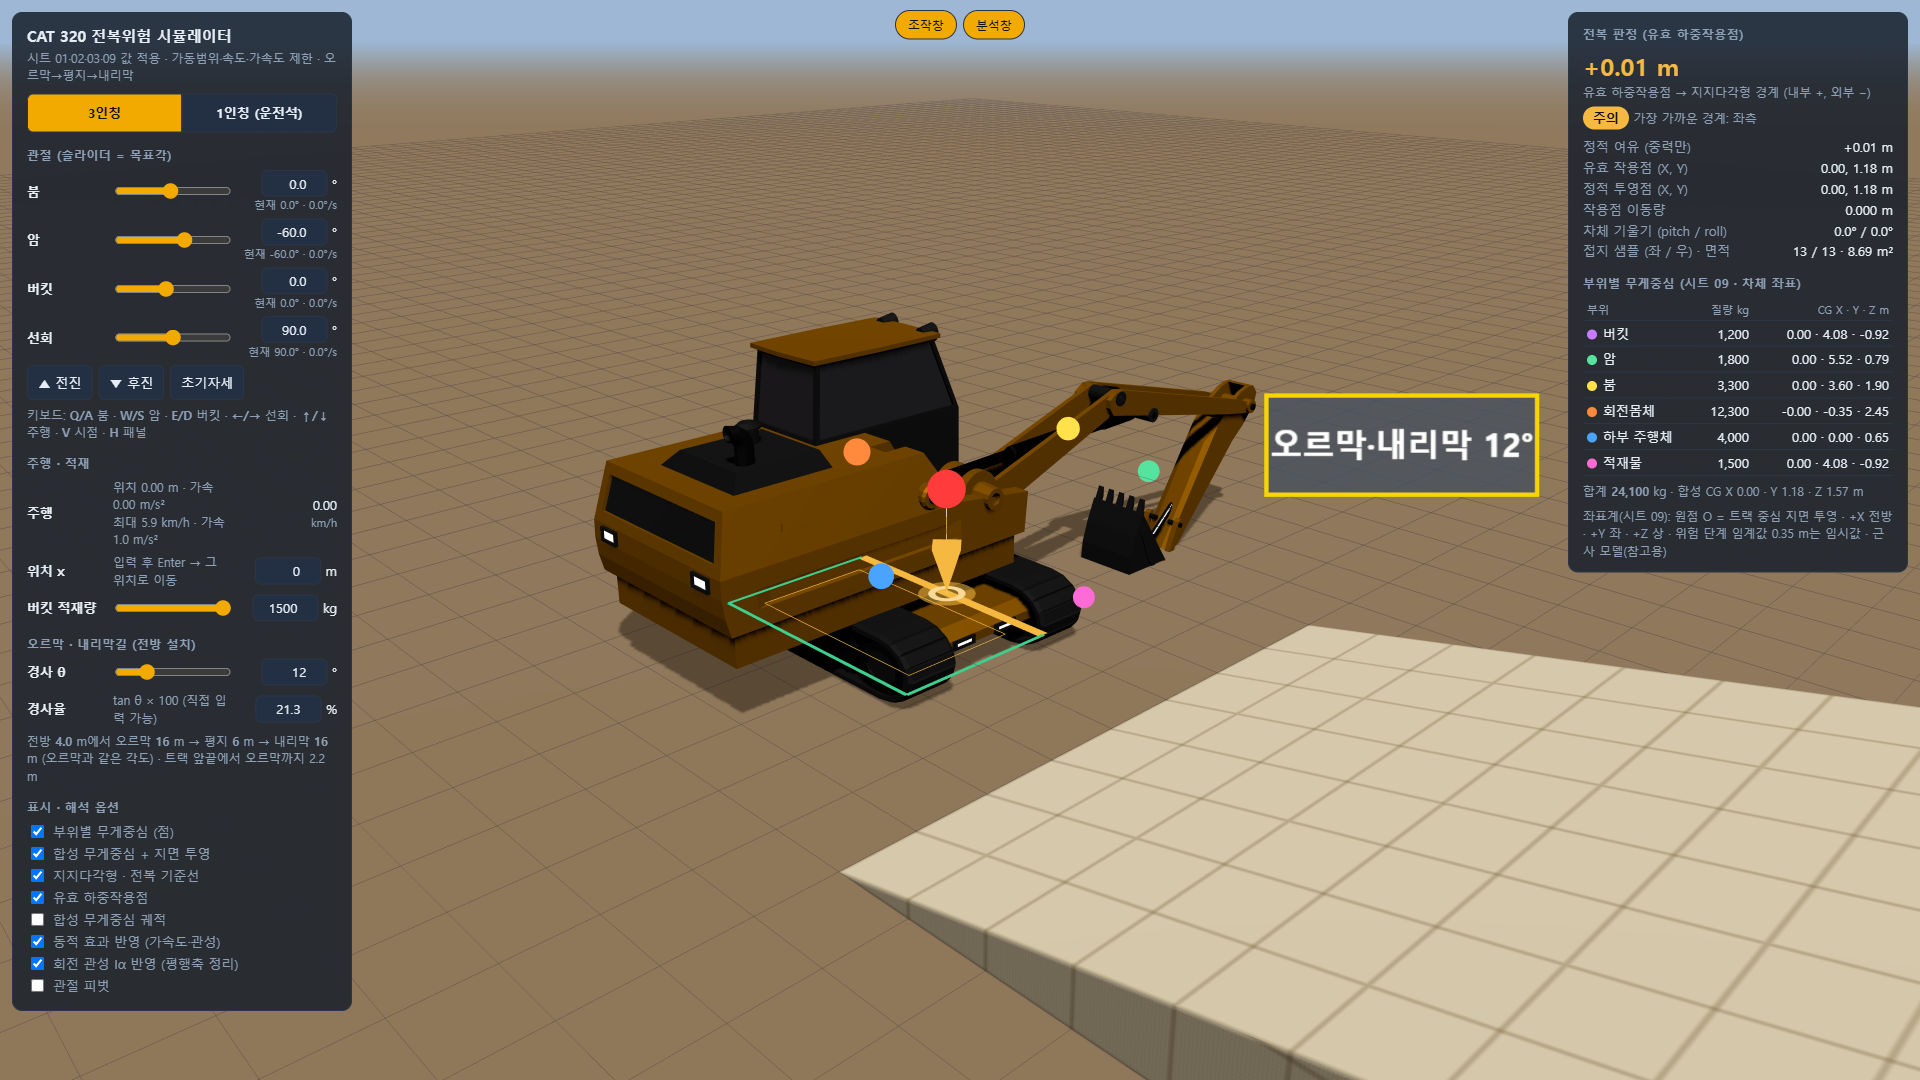
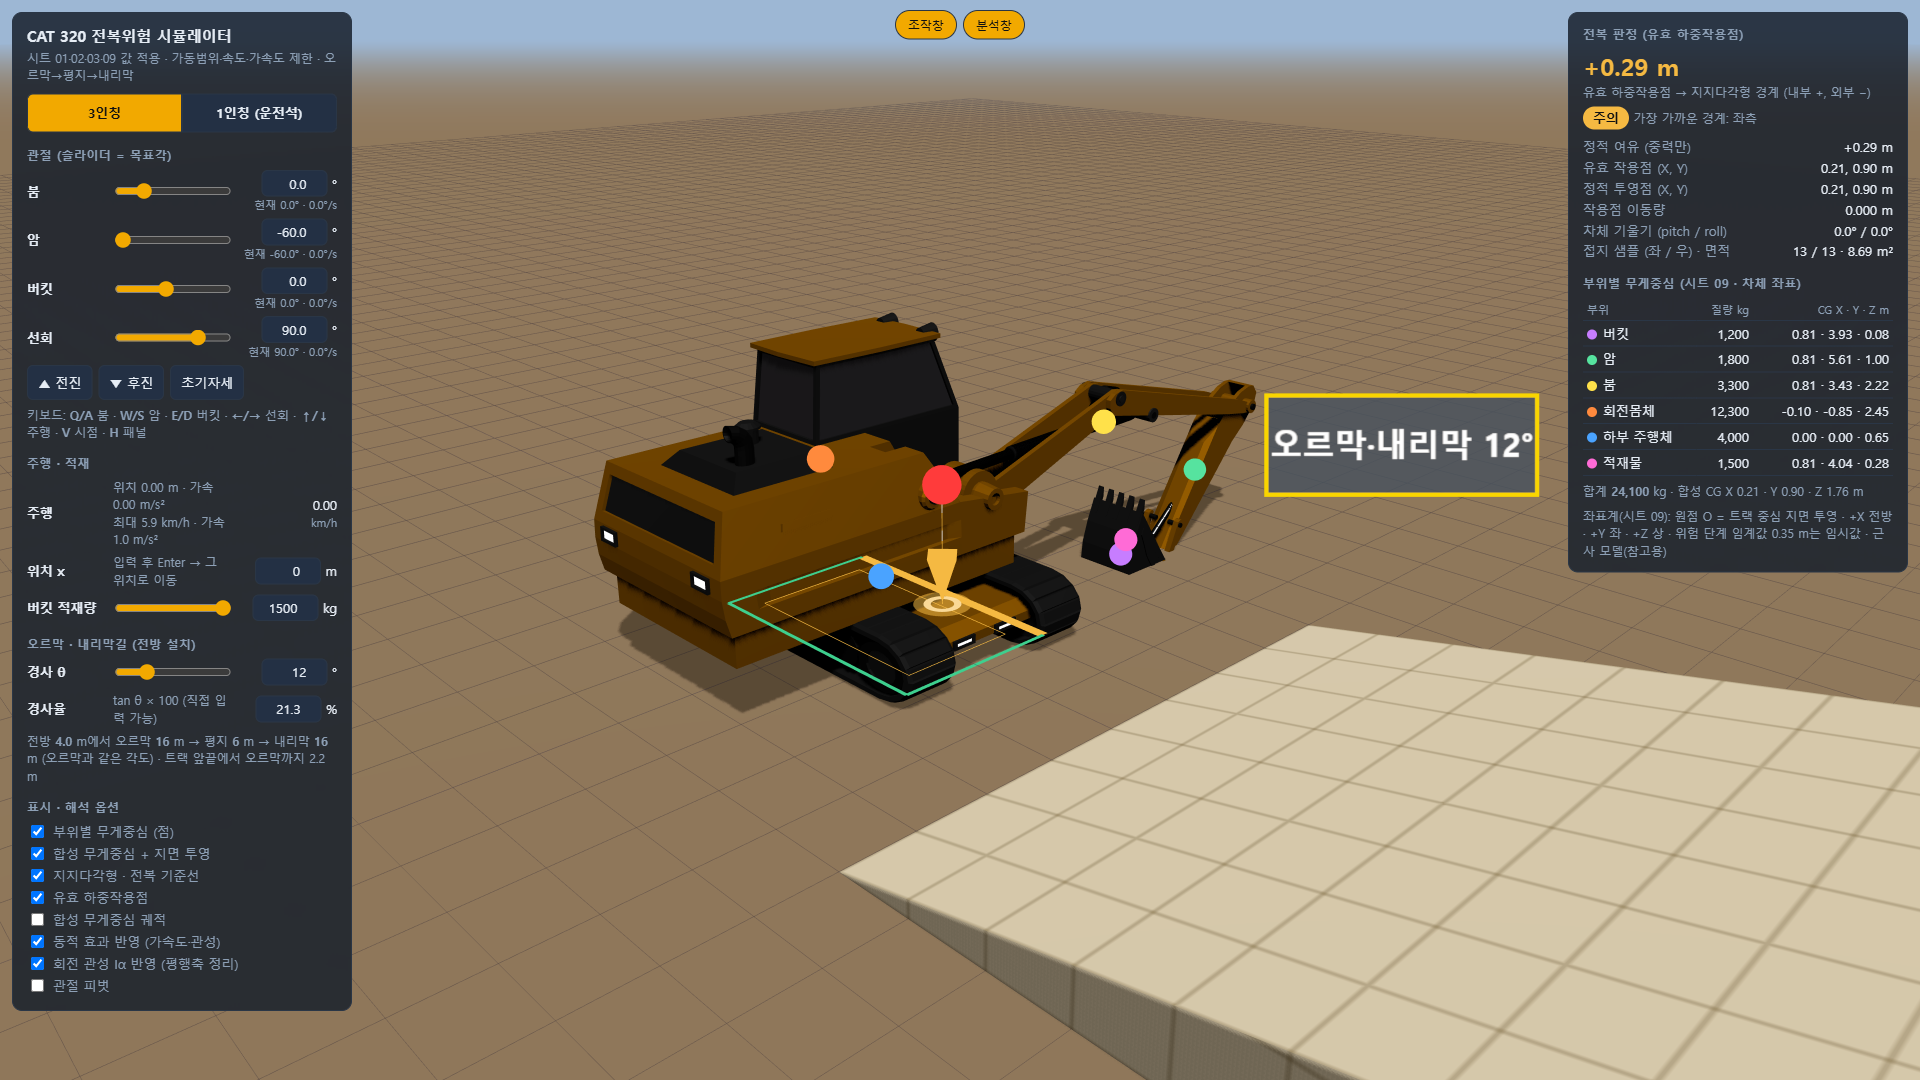
진짜 최종(무게중심 수정판) 기준으로 사진 7장·대본 수치·제작 가이드 갱신

diff --git a/docs/PPT_제작가이드.md b/docs/PPT_제작가이드.md
@@ -9,16 +9,16 @@
 |---|---|---|
 | `qr_simulator.png` | 시뮬레이터 주소 QR (흑백, 판독 확인 완료) | 결과물 시연 장, QnA 장 |
 | `qr_simulator_card.png` | QR + "시뮬레이터 직접 해 보기" + 주소가 들어간 노랑 카드 | 감사합니다 장 또는 QnA 장 오른쪽 아래 |
-| `sim_01_평지_초기자세_안정.png` | 평지 초기 자세, 여유 +0.47 m 안정 (양쪽 패널 보임) | 9장 「위험도 실시간 표시」 — 오른쪽 분석창 설명용 |
-| `sim_02_평지_팔옆으로_1500kg_주의.png` | 팔을 옆으로 뻗고 1,500 kg, +0.01 m 주의 | 정확도 확인 장 (짐을 늘리면 위험 증가) |
-| `sim_03a_오르막10도_팔들고_내리막방향_안정.png` | 오르막 10°, 팔 듦, 내리막 방향, +0.40 m 안정 | 8장 「위험 단계」 — 03b와 나란히 |
-| `sim_03b_오르막18도_팔들고_내리막방향_전복위험.png` | 같은 자세 오르막 18°, −0.07 m 전복 위험 | 8장 — 03a와 나란히 ("8도 차이로 판정이 바뀐다") |
+| `sim_01_평지_초기자세_안정.png` | 평지 초기 자세, 여유 +0.86 m 안정 (양쪽 패널 보임) | 9장 「위험도 실시간 표시」 — 오른쪽 분석창 설명용 |
+| `sim_02_평지_팔옆으로_1500kg_주의.png` | 팔을 옆으로 뻗고 1,500 kg, +0.29 m 주의 | 정확도 확인 장 (짐을 늘리면 위험 증가) |
+| `sim_03a_오르막15도_팔들고_내리막방향_안정.png` | 오르막 15°, 팔 듦, 내리막 방향, +0.45 m 안정 | 8장 「위험 단계」 — 03b와 나란히 |
+| `sim_03b_오르막25도_팔들고_내리막방향_전복위험.png` | 같은 자세 오르막 25°, −0.16 m 전복 위험 | 8장 — 03a와 나란히 ("10도 차이로 판정이 바뀐다") |
 | `sim_04a_1인칭_오르막15도_패널.png` | 운전석 시점, 오르막 15° (패널 보임) | 1인칭 설명 장 |
 | `sim_04b_1인칭_오르막15도_깨끗한화면.png` | 운전석 시점, 패널 없음 — 땅이 평평해 보임 | 1인칭 설명 장(큰 사진) |
-| `sim_05_3인칭_오르막18도_전복위험_깨끗한화면.png` | 3인칭, 패널 없이 전복 위험 장면 | 3장 「무엇을, 왜」 대표 사진 또는 표지 보조 |
+| `sim_05_3인칭_오르막25도_전복위험_깨끗한화면.png` | 3인칭, 패널 없이 전복 위험 장면 | 3장 「무엇을, 왜」 대표 사진 또는 표지 보조 |
 
-- 모두 1920×1080. Canva에 업로드 → 끌어다 놓기. 사진 위에 짧은 캡션(예: "오르막 18° · 내리막 방향 → 전복 위험")을 얹으면 좋다.
-- 수치는 최종(내리막길 적용) 시뮬레이터에서 직접 잰 값이다.
+- 모두 1920×1080. Canva에 업로드 → 끌어다 놓기. 사진 위에 짧은 캡션(예: "오르막 25° · 내리막 방향 → 전복 위험")을 얹으면 좋다.
+- 수치는 진짜 최종(무게중심 수정판) 시뮬레이터에서 직접 잰 값이다.
 
 ## 2. 슬라이드 배치 (수정안 13장 + 결과물 시연 1장 = 14장)
 
@@ -26,7 +26,7 @@
 |---|---|
 | 3 무엇을, 왜 만드나요 | 오른쪽에 `sim_05` 작게 |
 | 4 AI툴 소개 | 로고 + "AI는 어디에 쓰나요" 3줄 (수정안) |
-| 8 위험 단계 표시 방법 | 아래쪽에 `sim_03a` · `sim_03b` 나란히, 가운데 화살표 "10° → 18°" |
+| 8 위험 단계 표시 방법 | 아래쪽에 `sim_03a` · `sim_03b` 나란히, 가운데 화살표 "15° → 25°" |
 | 9 위험도 실시간 표시 방법 | `sim_01` (오른쪽 분석창에 동그라미 표시) |
 | **새 장 「결과물 시연」** (9장 뒤) | **영상**(아래 3절) 크게 + 오른쪽 아래 `qr_simulator.png` |
 | 10 정확한지 어떻게 확인하나요 | 문구 3줄 + `sim_02` |
@@ -40,10 +40,10 @@
 
 | 순서 | 클립 | 길이 | 찍는 방법 | 보여줄 메시지 |
 |---|---|---|---|---|
-| ★1 | **방향 하나로 바뀌는 판정** | 20초 | 오르막 18° 위에서 붐 60°·암 30°·버킷 45°로 팔을 든 채, 선회를 0° → 180°로 천천히 돌림 (← → 키) | 여유가 +1.19 m(안정) → 주의 → −0.07 m(전복 위험)으로 떨어지고, 바닥 화살표가 지지영역 밖으로 빨갛게 나감 |
+| ★1 | **방향 하나로 바뀌는 판정** | 20초 | 오르막 25° 위에서 붐 60°·암 30°·버킷 45°로 팔을 든 채, 선회를 0° → 180°로 천천히 돌림 (← → 키) | 여유가 +0.95 m(안정) → 주의 → −0.16 m(전복 위험)으로 떨어지고, 바닥 화살표가 지지영역 밖으로 빨갛게 나감 |
 | 2 | 오르막 진입 | 15초 | 평지에서 오르막(15~18°)으로 전진(↑ 키). 오른쪽 패널의 '차체 기울기'와 '접지 샘플'이 변하는 순간 | 땅에 닿는 점이 바뀌면 지지영역도 다시 계산된다 |
-| 3 | 짐을 늘리면 | 10~15초 | 평지, 팔을 옆으로 뻗은 자세(붐 0°, 암 −60°, 선회 90°)에서 버킷 적재량 0 → 1,500 kg | 여유 +0.20 m(주의) → +0.01 m(경계선) |
-| 4 | 급하게 돌리면 | 15초 | 평지, 적재 1,000 kg, 팔 옆으로 뻗은 채 선회를 빠르게 | '정적 여유'(중력만)와 맨 위 '유효' 여유가 벌어짐 — 움직이면 더 위험 |
+| 3 | 짐을 늘리면 | 10~15초 | 평지, 팔을 옆으로 뻗은 자세(붐 0°, 암 −60°, 선회 90°)에서 버킷 적재량 0 → 1,500 kg | 여유 +0.50 m(안정) → +0.29 m(주의) |
+| 4 | 급하게 멈추면 | 15초 | 평지, 적재 1,500 kg, 팔을 앞으로 높이 든 채(붐 60°, 암 30°) 최고속도로 전진하다 ↑ 키를 떼서 정지 | 정지 순간 맨 위 '유효' 여유가 0.87 m → 0.53 m로 줄어듦 — 움직이면 더 위험 (급선회는 차이가 작아 비추천) |
 | 5 | 운전석 시점 | 10초 | V 키로 1인칭 전환, 마우스로 둘러보기 (오르막 위) | 운전석에서는 기울기가 잘 안 느껴진다 |
 
 ### 녹화 방법
@@ -51,7 +51,7 @@
 - 도구: Windows `Win + Alt + R`(Xbox Game Bar) 또는 OBS
 - 패널: 위쪽 「조작창」 버튼으로 왼쪽 패널을 숨기고, 숫자가 보이도록 **오른쪽 「분석창」은 켜 둔다** (H 키는 둘 다 숨김)
 - 조작: 키보드로 천천히. 각 클립 끝에 판정 배지(안정/주의/전복 위험)가 보이는 상태로 2~3초 멈춤
-- 소리: 넣지 않음. 편집 때 자막만 (예: "18° · 내리막 방향 → 전복 위험")
+- 소리: 넣지 않음. 편집 때 자막만 (예: "25° · 내리막 방향 → 전복 위험")
 - 발표장 인터넷이 불안하면 라이브 데모 대신 이 영상을 튼다
 
 ## 4. 발표 전 확인 (중요)
@@ -59,6 +59,6 @@
 | 항목 | 상태 |
 |---|---|
 | QR 주소 | `https://kuk97339429-source.github.io/heavy-equipment-rollover/` — 판독 확인 완료 |
-| **QR이 여는 시뮬레이터 버전** | **아직 이전 버전이 올라가 있음** → 최종(내리막길 적용) 버전으로 교체해야 QR로 연 화면이 영상·사진과 같아짐 |
+| **QR이 여는 시뮬레이터 버전** | **아직 이전 버전이 올라가 있음** → 진짜 최종(무게중심 수정판)으로 교체해야 QR로 연 화면이 영상·사진과 같아짐 |
 | 부품 질량 | 최종 시뮬레이터는 팀 시트 질량(버킷 1,200 / 암 1,800 / 붐 3,300 / 회전몸체 12,300 / 하부 4,000 kg) 사용. 사진·영상 수치도 이 기준 |
 | 위험 단계 기준 0.35 m | 임시값 — 발표 때 그렇게 말할 것 |
